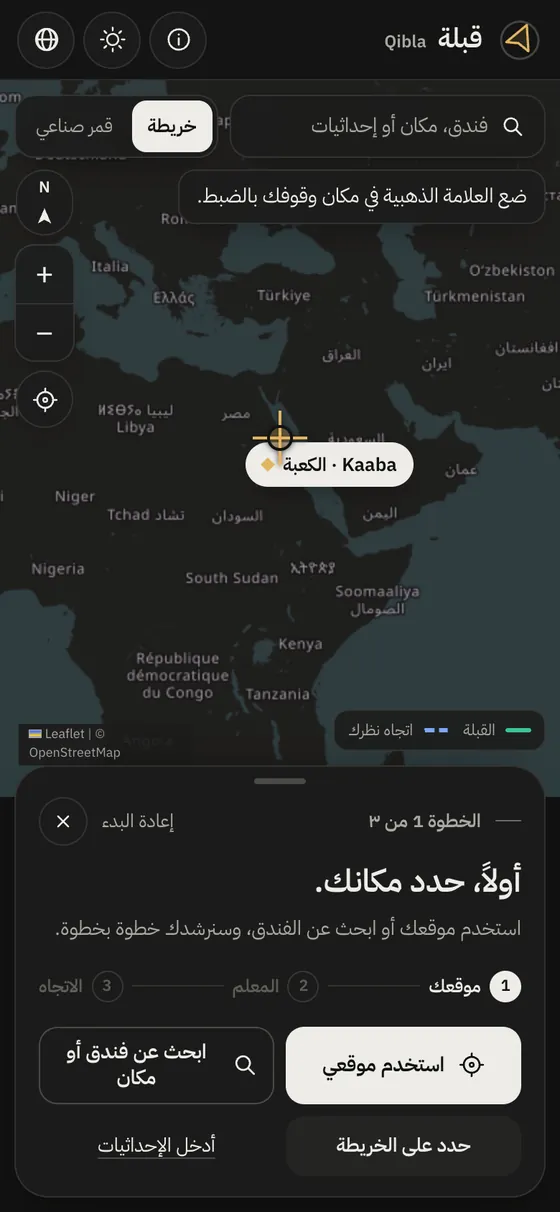
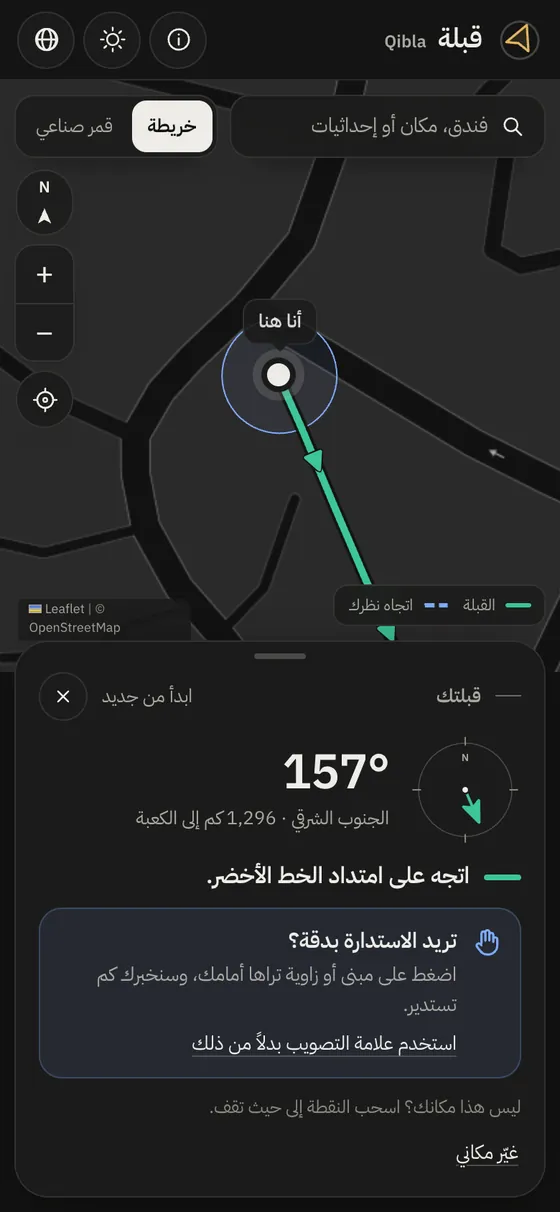
Qibla card shows the one-tap answer

diff --git a/ar/index.html b/ar/index.html
@@ -82,7 +82,7 @@
 <path d="M0 0 C7.05 -1.32 7.05 -1.32 11 0 C14.49 4.64 16.78 9.65 19 15 C19.46 13.92 19.92 12.83 20.4 11.72 C22.36 7.53 24.26 3.74 27 0 C32.5 -0.94 32.5 -0.94 37 0 C35.02 4.94 32.61 9.25 30 13.88 C25.5 22.3 23.31 29.48 23 39 C20.03 39 17.06 39 14 39 C14.1 37.18 14.21 35.37 14.31 33.5 C13.59 21.48 5.88 11.16 0 1 C0 0.67 0 0.34 0 0 Z " fill="#eeeee5" transform="translate(601,484)"/>
 <path d="M0 0 C3.63 0 7.26 0 11 0 C13.46 2.96 13.46 2.96 14.94 6.94 C15.47 8.3 16.01 9.66 16.56 11.06 C17.04 12.36 17.51 13.66 18 15 C18.8 16.79 19.61 18.59 20.44 20.44 C20.95 21.61 21.47 22.79 22 24 C22.45 23.11 22.89 22.21 23.36 21.29 C24.61 18.78 25.87 16.28 27.15 13.78 C29 10 29 10 30.23 6.84 C31.31 4.12 31.31 4.12 34 0 C37.3 0 40.6 0 44 0 C44 12.87 44 25.74 44 39 C41.03 39 38.06 39 35 39 C34.67 32.4 34.34 25.8 34 19 C32.85 21.97 31.69 24.94 30.5 28 C28.53 33.06 28.53 33.06 26 37 C22 38.16 22 38.16 18 37 C15.47 32.84 15.47 32.84 13.5 27.5 C12.83 25.74 12.16 23.97 11.47 22.16 C10.98 20.78 10.5 19.41 10 18 C10.01 19.43 10.02 20.86 10.04 22.34 C10.04 24.19 10.05 26.03 10.06 27.94 C10.07 29.78 10.09 31.63 10.1 33.53 C10 38 10 38 9 39 C6.03 39 3.06 39 0 39 C0 26.13 0 13.26 0 0 Z " fill="#eeeee5" transform="translate(661,484)"/>
 <g id="nadi-dots" fill="#eeeee5"><rect x="555" y="10" width="12" height="12" rx="3"/><rect x="370" y="99" width="10" height="10" rx="2.5"/><rect x="387" y="99" width="10" height="10" rx="2.5"/></g>
-</symbol></defs></svg><section class="ventures" id="ventures" aria-labelledby="ventures-title"><div class="ventures-heading"><div><p class="eyebrow">من أعمال athari.dev</p><h2 id="ventures-title">مشاريعنا</h2></div><div class="ventures-side"><p class="ventures-lead">منتجات نصمّمها ونبنيها ونشغّلها بأنفسنا.</p><div class="rail-nav" hidden><button class="rail-btn" type="button" data-rail="-1" aria-controls="venture-grid" aria-label="المشاريع السابقة"><svg viewBox="0 0 24 24" aria-hidden="true"><path d="m14.5 6-6 6 6 6"/></svg></button><button class="rail-btn" type="button" data-rail="1" aria-controls="venture-grid" aria-label="مزيد من المشاريع"><svg viewBox="0 0 24 24" aria-hidden="true"><path d="m14.5 6-6 6 6 6"/></svg></button></div></div></div><ol class="venture-grid" id="venture-grid" data-ink><li><a class="venture" href="https://sabab.athari.dev/" style="--glow:#00b78e"><span class="venture-stage" aria-hidden="true"><svg class="venture-mark venture-mark-sabab" viewBox="0 0 872 350" style="aspect-ratio:872/350" focusable="false"><use href="#venture-sabab"/></svg><span class="venture-device"><img src="/assets/ventures/screens/sabab-ar.webp?v=20261124-latest" alt="" width="560" height="1211" loading="lazy" decoding="async"></span></span><span class="venture-meta"><span class="venture-title"><strong>سبب</strong><span class="venture-status" data-status="soon">قريبًا</span></span><span class="venture-text">وظائف قريبة منك، وحرفيون تثق بهم.</span><svg class="venture-go" viewBox="0 0 24 24" aria-hidden="true"><path d="M7 17 17 7M8 7h9v9"/></svg></span></a></li><li><a class="venture" href="https://ajobs.athari.dev/" style="--glow:#a1cdf3"><span class="venture-stage" aria-hidden="true"><svg class="venture-mark venture-mark-ajobs" viewBox="0 0 420 130" style="aspect-ratio:420/130" focusable="false"><use href="#venture-ajobs"/></svg><span class="venture-device"><img src="/assets/ventures/screens/ajobs-ar.webp?v=20261124-latest" alt="" width="560" height="1211" loading="lazy" decoding="async"></span></span><span class="venture-meta"><span class="venture-title"><strong>AJobs</strong><span class="venture-status" data-status="live">متاح الآن</span></span><span class="venture-text">بحث واختيار مستقل لأصحاب الخبرة والكفاءة.</span><svg class="venture-go" viewBox="0 0 24 24" aria-hidden="true"><path d="M7 17 17 7M8 7h9v9"/></svg></span></a></li><li><a class="venture" href="https://athar.athari.dev/" style="--glow:#cfc9b8"><span class="venture-stage" aria-hidden="true"><svg class="venture-mark venture-mark-athar" viewBox="0 0 893 538" style="aspect-ratio:893/538" focusable="false"><use href="#venture-athar"/></svg><span class="venture-device"><img src="/assets/ventures/screens/athar.webp?v=20261124-latest" alt="" width="560" height="1211" loading="lazy" decoding="async"></span></span><span class="venture-meta"><span class="venture-title"><strong>نادي أثر</strong><span class="venture-status" data-status="soon">قريبًا</span></span><span class="venture-text">نادٍ رجالي، ومصلى مستقل وقفٌ دائم.</span><svg class="venture-go" viewBox="0 0 24 24" aria-hidden="true"><path d="M7 17 17 7M8 7h9v9"/></svg></span></a></li><li><a class="venture" href="https://qibla.athari.dev/" style="--glow:#e4c38b"><span class="venture-stage" aria-hidden="true"><svg class="venture-mark venture-mark-qibla" viewBox="0 0 295 110" style="aspect-ratio:295/110" focusable="false"><use href="#venture-qibla"/></svg><span class="venture-device"><img src="/assets/ventures/screens/qibla-ar.webp?v=20261124-merged" alt="" width="560" height="1211" loading="lazy" decoding="async"></span></span><span class="venture-meta"><span class="venture-title"><strong>قبلة</strong><span class="venture-status" data-status="live">متاح الآن</span></span><span class="venture-text">اعثر على القبلة بخريطة ومَعلم، دون بوصلة.</span><svg class="venture-go" viewBox="0 0 24 24" aria-hidden="true"><path d="M7 17 17 7M8 7h9v9"/></svg></span></a></li><li><a class="venture" href="https://brainstorm.athari.dev/" style="--glow:#c99578"><span class="venture-stage" aria-hidden="true"><svg class="venture-mark venture-mark-brainstorm" viewBox="0 0 500 110" style="aspect-ratio:500/110" focusable="false"><use href="#venture-brainstorm"/></svg><span class="venture-device"><img src="/assets/ventures/screens/brainstorm.webp?v=20261124-merged" alt="" width="560" height="1211" loading="lazy" decoding="async"></span></span><span class="venture-meta"><span class="venture-title"><strong>Brainstorm</strong><span class="venture-status" data-status="invite">بدعوة</span></span><span class="venture-text">مساحة مشتركة لأفكار فريقك ولوحاته.</span><svg class="venture-go" viewBox="0 0 24 24" aria-hidden="true"><path d="M7 17 17 7M8 7h9v9"/></svg></span></a></li><li class="yp-item"><a class="venture yp" href="#connect" data-enquire style="--glow:#c8b28a"><span class="venture-stage" aria-hidden="true"><span class="yp-tag"><svg viewBox="0 0 24 24"><path d="M12 6v12M6 12h12"/></svg>اسمك هنا</span><span class="venture-device"><svg class="ink yp-screen" viewBox="0 0 194 420" aria-hidden="true" focusable="false"><defs><pattern id="yp-dots" width="12" height="12" patternUnits="userSpaceOnUse"><circle cx="6" cy="6" r=".7"/></pattern></defs><rect class="yp-grid" width="194" height="420" fill="url(#yp-dots)"/><g transform="translate(194 0) scale(-1 1)"><path pathLength="1" style="--d:0s" d="M82 12h30a5 5 0 0 1 0 10H82a5 5 0 0 1 0-10Z"/><path pathLength="1" style="--d:.1s" d="M17 44a7 7 0 1 0 14 0a7 7 0 1 0-14 0Z"/><path pathLength="1" style="--d:.2s" d="M38 44h40"/><path pathLength="1" style="--d:.25s" d="M156 40h18M160 48h14"/><path pathLength="1" style="--d:.55s" d="M18 104h118"/><path pathLength="1" style="--d:.62s" d="M18 114h84"/><path pathLength="1" style="--d:.7s" d="M30 126h134a12 12 0 0 1 12 12v38a12 12 0 0 1-12 12H30a12 12 0 0 1-12-12v-38a12 12 0 0 1 12-12Z"/><path pathLength="1" style="--d:1s" d="M30 174c14 0 18-16 34-16s18 10 32 10 24-26 52-28"/><path pathLength="1" style="--d:1.45s" d="M148 140a3 3 0 1 0 6 0a3 3 0 1 0-6 0Z"/><path pathLength="1" style="--d:1.3s" d="M32 198h130a14 14 0 0 1 0 28H32a14 14 0 0 1 0-28Z"/><path pathLength="1" style="--d:1.15s" d="M30 240h134a12 12 0 0 1 12 12v16a12 12 0 0 1-12 12H30a12 12 0 0 1-12-12v-16a12 12 0 0 1 12-12Z"/><path pathLength="1" style="--d:1.2s" d="M31 260a7 7 0 1 0 14 0a7 7 0 1 0-14 0Z"/><path pathLength="1" style="--d:1.25s" d="M54 255h70M54 265h46"/><path pathLength="1" style="--d:1.25s" d="M30 290h134a12 12 0 0 1 12 12v16a12 12 0 0 1-12 12H30a12 12 0 0 1-12-12v-16a12 12 0 0 1 12-12Z"/><path pathLength="1" style="--d:1.3s" d="M31 310a7 7 0 1 0 14 0a7 7 0 1 0-14 0Z"/><path pathLength="1" style="--d:1.35s" d="M54 305h58M54 315h80"/></g><text class="yp-title" x="176" text-anchor="start" y="88">تطبيقك</text><rect class="yp-cover" x="12" y="64" width="170" height="32"/><rect class="yp-fill" x="18" y="198" width="158" height="28" rx="14"/><text class="yp-label" x="97" y="212.5">لنبنِه معًا</text></svg></span></span><span class="venture-meta"><span class="venture-title"><strong>مشروعك</strong><span class="venture-status" data-status="open">التالي</span></span><span class="venture-text">البطاقة التالية هنا محجوزة لفكرتك. أخبرنا بما تريد أن نبنيه.</span><svg class="venture-go" viewBox="0 0 24 24" aria-hidden="true"><path d="M7 17 17 7M8 7h9v9"/></svg></span></a></li></ol></section>
+</symbol></defs></svg><section class="ventures" id="ventures" aria-labelledby="ventures-title"><div class="ventures-heading"><div><p class="eyebrow">من أعمال athari.dev</p><h2 id="ventures-title">مشاريعنا</h2></div><div class="ventures-side"><p class="ventures-lead">منتجات نصمّمها ونبنيها ونشغّلها بأنفسنا.</p><div class="rail-nav" hidden><button class="rail-btn" type="button" data-rail="-1" aria-controls="venture-grid" aria-label="المشاريع السابقة"><svg viewBox="0 0 24 24" aria-hidden="true"><path d="m14.5 6-6 6 6 6"/></svg></button><button class="rail-btn" type="button" data-rail="1" aria-controls="venture-grid" aria-label="مزيد من المشاريع"><svg viewBox="0 0 24 24" aria-hidden="true"><path d="m14.5 6-6 6 6 6"/></svg></button></div></div></div><ol class="venture-grid" id="venture-grid" data-ink><li><a class="venture" href="https://sabab.athari.dev/" style="--glow:#00b78e"><span class="venture-stage" aria-hidden="true"><svg class="venture-mark venture-mark-sabab" viewBox="0 0 872 350" style="aspect-ratio:872/350" focusable="false"><use href="#venture-sabab"/></svg><span class="venture-device"><img src="/assets/ventures/screens/sabab-ar.webp?v=20261124-latest" alt="" width="560" height="1211" loading="lazy" decoding="async"></span></span><span class="venture-meta"><span class="venture-title"><strong>سبب</strong><span class="venture-status" data-status="soon">قريبًا</span></span><span class="venture-text">وظائف قريبة منك، وحرفيون تثق بهم.</span><svg class="venture-go" viewBox="0 0 24 24" aria-hidden="true"><path d="M7 17 17 7M8 7h9v9"/></svg></span></a></li><li><a class="venture" href="https://ajobs.athari.dev/" style="--glow:#a1cdf3"><span class="venture-stage" aria-hidden="true"><svg class="venture-mark venture-mark-ajobs" viewBox="0 0 420 130" style="aspect-ratio:420/130" focusable="false"><use href="#venture-ajobs"/></svg><span class="venture-device"><img src="/assets/ventures/screens/ajobs-ar.webp?v=20261124-latest" alt="" width="560" height="1211" loading="lazy" decoding="async"></span></span><span class="venture-meta"><span class="venture-title"><strong>AJobs</strong><span class="venture-status" data-status="live">متاح الآن</span></span><span class="venture-text">بحث واختيار مستقل لأصحاب الخبرة والكفاءة.</span><svg class="venture-go" viewBox="0 0 24 24" aria-hidden="true"><path d="M7 17 17 7M8 7h9v9"/></svg></span></a></li><li><a class="venture" href="https://athar.athari.dev/" style="--glow:#cfc9b8"><span class="venture-stage" aria-hidden="true"><svg class="venture-mark venture-mark-athar" viewBox="0 0 893 538" style="aspect-ratio:893/538" focusable="false"><use href="#venture-athar"/></svg><span class="venture-device"><img src="/assets/ventures/screens/athar.webp?v=20261124-latest" alt="" width="560" height="1211" loading="lazy" decoding="async"></span></span><span class="venture-meta"><span class="venture-title"><strong>نادي أثر</strong><span class="venture-status" data-status="soon">قريبًا</span></span><span class="venture-text">نادٍ رجالي، ومصلى مستقل وقفٌ دائم.</span><svg class="venture-go" viewBox="0 0 24 24" aria-hidden="true"><path d="M7 17 17 7M8 7h9v9"/></svg></span></a></li><li><a class="venture" href="https://qibla.athari.dev/" style="--glow:#e4c38b"><span class="venture-stage" aria-hidden="true"><svg class="venture-mark venture-mark-qibla" viewBox="0 0 295 110" style="aspect-ratio:295/110" focusable="false"><use href="#venture-qibla"/></svg><span class="venture-device"><img src="/assets/ventures/screens/qibla-ar.webp?v=20261125-onetap" alt="" width="560" height="1211" loading="lazy" decoding="async"></span></span><span class="venture-meta"><span class="venture-title"><strong>قبلة</strong><span class="venture-status" data-status="live">متاح الآن</span></span><span class="venture-text">اضغط مرة واحدة لترى اتجاه القبلة على الخريطة، دون بوصلة.</span><svg class="venture-go" viewBox="0 0 24 24" aria-hidden="true"><path d="M7 17 17 7M8 7h9v9"/></svg></span></a></li><li><a class="venture" href="https://brainstorm.athari.dev/" style="--glow:#c99578"><span class="venture-stage" aria-hidden="true"><svg class="venture-mark venture-mark-brainstorm" viewBox="0 0 500 110" style="aspect-ratio:500/110" focusable="false"><use href="#venture-brainstorm"/></svg><span class="venture-device"><img src="/assets/ventures/screens/brainstorm.webp?v=20261124-merged" alt="" width="560" height="1211" loading="lazy" decoding="async"></span></span><span class="venture-meta"><span class="venture-title"><strong>Brainstorm</strong><span class="venture-status" data-status="invite">بدعوة</span></span><span class="venture-text">مساحة مشتركة لأفكار فريقك ولوحاته.</span><svg class="venture-go" viewBox="0 0 24 24" aria-hidden="true"><path d="M7 17 17 7M8 7h9v9"/></svg></span></a></li><li class="yp-item"><a class="venture yp" href="#connect" data-enquire style="--glow:#c8b28a"><span class="venture-stage" aria-hidden="true"><span class="yp-tag"><svg viewBox="0 0 24 24"><path d="M12 6v12M6 12h12"/></svg>اسمك هنا</span><span class="venture-device"><svg class="ink yp-screen" viewBox="0 0 194 420" aria-hidden="true" focusable="false"><defs><pattern id="yp-dots" width="12" height="12" patternUnits="userSpaceOnUse"><circle cx="6" cy="6" r=".7"/></pattern></defs><rect class="yp-grid" width="194" height="420" fill="url(#yp-dots)"/><g transform="translate(194 0) scale(-1 1)"><path pathLength="1" style="--d:0s" d="M82 12h30a5 5 0 0 1 0 10H82a5 5 0 0 1 0-10Z"/><path pathLength="1" style="--d:.1s" d="M17 44a7 7 0 1 0 14 0a7 7 0 1 0-14 0Z"/><path pathLength="1" style="--d:.2s" d="M38 44h40"/><path pathLength="1" style="--d:.25s" d="M156 40h18M160 48h14"/><path pathLength="1" style="--d:.55s" d="M18 104h118"/><path pathLength="1" style="--d:.62s" d="M18 114h84"/><path pathLength="1" style="--d:.7s" d="M30 126h134a12 12 0 0 1 12 12v38a12 12 0 0 1-12 12H30a12 12 0 0 1-12-12v-38a12 12 0 0 1 12-12Z"/><path pathLength="1" style="--d:1s" d="M30 174c14 0 18-16 34-16s18 10 32 10 24-26 52-28"/><path pathLength="1" style="--d:1.45s" d="M148 140a3 3 0 1 0 6 0a3 3 0 1 0-6 0Z"/><path pathLength="1" style="--d:1.3s" d="M32 198h130a14 14 0 0 1 0 28H32a14 14 0 0 1 0-28Z"/><path pathLength="1" style="--d:1.15s" d="M30 240h134a12 12 0 0 1 12 12v16a12 12 0 0 1-12 12H30a12 12 0 0 1-12-12v-16a12 12 0 0 1 12-12Z"/><path pathLength="1" style="--d:1.2s" d="M31 260a7 7 0 1 0 14 0a7 7 0 1 0-14 0Z"/><path pathLength="1" style="--d:1.25s" d="M54 255h70M54 265h46"/><path pathLength="1" style="--d:1.25s" d="M30 290h134a12 12 0 0 1 12 12v16a12 12 0 0 1-12 12H30a12 12 0 0 1-12-12v-16a12 12 0 0 1 12-12Z"/><path pathLength="1" style="--d:1.3s" d="M31 310a7 7 0 1 0 14 0a7 7 0 1 0-14 0Z"/><path pathLength="1" style="--d:1.35s" d="M54 305h58M54 315h80"/></g><text class="yp-title" x="176" text-anchor="start" y="88">تطبيقك</text><rect class="yp-cover" x="12" y="64" width="170" height="32"/><rect class="yp-fill" x="18" y="198" width="158" height="28" rx="14"/><text class="yp-label" x="97" y="212.5">لنبنِه معًا</text></svg></span></span><span class="venture-meta"><span class="venture-title"><strong>مشروعك</strong><span class="venture-status" data-status="open">التالي</span></span><span class="venture-text">البطاقة التالية هنا محجوزة لفكرتك. أخبرنا بما تريد أن نبنيه.</span><svg class="venture-go" viewBox="0 0 24 24" aria-hidden="true"><path d="M7 17 17 7M8 7h9v9"/></svg></span></a></li></ol></section>
       <section class="offerings" id="showcase" aria-labelledby="showcase-title"><div class="offerings-heading"><div><p class="eyebrow">الخدمات</p><h2 id="showcase-title">تقنية تخدم <span class="serif">أعمالك.</span></h2></div><a class="offering-cta" href="#connect">لنتحدّث عن مشروعك<svg viewBox="0 0 24 24" aria-hidden="true"><path d="M6 18 18 6M6 6h12v12"/></svg></a></div><ol class="offerings-list" data-ink><li><span class="offering-ink" aria-hidden="true"><svg class="ink" viewBox="0 0 40 40"><path pathLength="1" d="M27 23.5V27a2.5 2.5 0 0 1-2.5 2.5h-18A2.5 2.5 0 0 1 4 27V11.5A2.5 2.5 0 0 1 6.5 9h18a2.5 2.5 0 0 1 2.5 2.5v3"/><path pathLength="1" d="M4 14.5h19"/><path pathLength="1" style="--d:.25s" d="M28.5 16h5a2 2 0 0 1 2 2v13.5a2 2 0 0 1-2 2h-5a2 2 0 0 1-2-2V18a2 2 0 0 1 2-2Z"/><path pathLength="1" style="--d:.5s" d="M30 29.5h2"/></svg></span><h3>مواقع وتطبيقات</h3><p>مواقع لأعمالك، تطبيقات لعملائك وأدوات مخصّصة لفريقك.</p></li><li><span class="offering-ink" aria-hidden="true"><svg class="ink" viewBox="0 0 40 40"><path pathLength="1" d="M17 7c.9 6.4 3.6 9.1 10 10-6.4.9-9.1 3.6-10 10-.9-6.4-3.6-9.1-10-10 6.4-.9 9.1-3.6 10-10Z"/><path pathLength="1" style="--d:.3s" d="M30 4.5c.4 2.6 1.4 3.6 4 4-2.6.4-3.6 1.4-4 4-.4-2.6-1.4-3.6-4-4 2.6-.4 3.6-1.4 4-4Z"/><path pathLength="1" style="--d:.45s" d="M29.5 26.5a12.5 12.5 0 0 1-17.6 6.2"/><path pathLength="1" style="--d:.7s" d="m12.6 29.7-.7 3 3 .9"/></svg></span><h3>ذكاء اصطناعي وأتمتة</h3><p>حلول للذكاء الاصطناعي والحوسبة السحابية تربط أنظمتك وتبسّط العمل المتكرّر.</p></li><li><span class="offering-ink" aria-hidden="true"><svg class="ink" viewBox="0 0 40 40"><path pathLength="1" d="M8.5 31.5c7 0 6.5-9 13-9s6-10.5 10-13"/><path pathLength="1" style="--d:.35s" d="M8.5 34.5a3 3 0 1 0 0-6 3 3 0 0 0 0 6Z"/><path pathLength="1" style="--d:.55s" d="M31.5 13.5v-9l5 2.3-5 2.2"/></svg></span><h3>استشارات تقنية</h3><p>تحديد نطاق المنتج، اختيار البنية المناسبة والتخطيط للخطوة القادمة.</p></li></ol></section>
       
       <section class="approach" id="approach" aria-labelledby="approach-title"><div class="approach-heading"><div><p class="eyebrow">طريقة العمل</p><h2 id="approach-title">من الفكرة إلى <span class="serif">التنفيذ.</span></h2></div><p>خطوات واضحة. وتواصل مباشر.</p></div><ol class="approach-steps" data-ink><li><span class="step-index" aria-hidden="true">٠١</span><h3>نفهم الاحتياج</h3><p>نبدأ بما يحتاجه عملك، ولمن نبنيه، وما الذي تريد تحسينه.</p></li><li><span class="step-index" aria-hidden="true">٠٢</span><h3>نحدّد النطاق</h3><p>نتّفق على المطلوب والأولويات والتكلفة قبل بدء التنفيذ.</p></li><li><span class="step-index" aria-hidden="true">٠٣</span><h3>نبني ونراجع</h3><p>نحوّل الفكرة إلى منتج، نراجعه معًا، ونجهّزه للإطلاق.</p></li></ol></section>

diff --git a/en/index.html b/en/index.html
@@ -81,7 +81,7 @@
 <path d="M0 0 C7.05 -1.32 7.05 -1.32 11 0 C14.49 4.64 16.78 9.65 19 15 C19.46 13.92 19.92 12.83 20.4 11.72 C22.36 7.53 24.26 3.74 27 0 C32.5 -0.94 32.5 -0.94 37 0 C35.02 4.94 32.61 9.25 30 13.88 C25.5 22.3 23.31 29.48 23 39 C20.03 39 17.06 39 14 39 C14.1 37.18 14.21 35.37 14.31 33.5 C13.59 21.48 5.88 11.16 0 1 C0 0.67 0 0.34 0 0 Z " fill="#eeeee5" transform="translate(601,484)"/>
 <path d="M0 0 C3.63 0 7.26 0 11 0 C13.46 2.96 13.46 2.96 14.94 6.94 C15.47 8.3 16.01 9.66 16.56 11.06 C17.04 12.36 17.51 13.66 18 15 C18.8 16.79 19.61 18.59 20.44 20.44 C20.95 21.61 21.47 22.79 22 24 C22.45 23.11 22.89 22.21 23.36 21.29 C24.61 18.78 25.87 16.28 27.15 13.78 C29 10 29 10 30.23 6.84 C31.31 4.12 31.31 4.12 34 0 C37.3 0 40.6 0 44 0 C44 12.87 44 25.74 44 39 C41.03 39 38.06 39 35 39 C34.67 32.4 34.34 25.8 34 19 C32.85 21.97 31.69 24.94 30.5 28 C28.53 33.06 28.53 33.06 26 37 C22 38.16 22 38.16 18 37 C15.47 32.84 15.47 32.84 13.5 27.5 C12.83 25.74 12.16 23.97 11.47 22.16 C10.98 20.78 10.5 19.41 10 18 C10.01 19.43 10.02 20.86 10.04 22.34 C10.04 24.19 10.05 26.03 10.06 27.94 C10.07 29.78 10.09 31.63 10.1 33.53 C10 38 10 38 9 39 C6.03 39 3.06 39 0 39 C0 26.13 0 13.26 0 0 Z " fill="#eeeee5" transform="translate(661,484)"/>
 <g id="nadi-dots" fill="#eeeee5"><rect x="555" y="10" width="12" height="12" rx="3"/><rect x="370" y="99" width="10" height="10" rx="2.5"/><rect x="387" y="99" width="10" height="10" rx="2.5"/></g>
-</symbol></defs></svg><section class="ventures" id="ventures" aria-labelledby="ventures-title"><div class="ventures-heading"><div><p class="eyebrow">Built by athari.dev</p><h2 id="ventures-title">Our ventures</h2></div><div class="ventures-side"><p class="ventures-lead">Products we design, build and run ourselves.</p><div class="rail-nav" hidden><button class="rail-btn" type="button" data-rail="-1" aria-controls="venture-grid" aria-label="Previous ventures"><svg viewBox="0 0 24 24" aria-hidden="true"><path d="m14.5 6-6 6 6 6"/></svg></button><button class="rail-btn" type="button" data-rail="1" aria-controls="venture-grid" aria-label="More ventures"><svg viewBox="0 0 24 24" aria-hidden="true"><path d="m14.5 6-6 6 6 6"/></svg></button></div></div></div><ol class="venture-grid" id="venture-grid" data-ink><li><a class="venture" href="https://sabab.athari.dev/" style="--glow:#00b78e"><span class="venture-stage" aria-hidden="true"><svg class="venture-mark venture-mark-sabab" viewBox="0 0 872 350" style="aspect-ratio:872/350" focusable="false"><use href="#venture-sabab"/></svg><span class="venture-device"><img src="/assets/ventures/screens/sabab-en.webp?v=20261124-latest" alt="" width="560" height="1211" loading="lazy" decoding="async"></span></span><span class="venture-meta"><span class="venture-title"><strong>Sabab</strong><span class="venture-status" data-status="soon">Coming soon</span></span><span class="venture-text">Jobs near you and handymen you can trust.</span><svg class="venture-go" viewBox="0 0 24 24" aria-hidden="true"><path d="M7 17 17 7M8 7h9v9"/></svg></span></a></li><li><a class="venture" href="https://ajobs.athari.dev/" style="--glow:#a1cdf3"><span class="venture-stage" aria-hidden="true"><svg class="venture-mark venture-mark-ajobs" viewBox="0 0 420 130" style="aspect-ratio:420/130" focusable="false"><use href="#venture-ajobs"/></svg><span class="venture-device"><img src="/assets/ventures/screens/ajobs-en.webp?v=20261124-latest" alt="" width="560" height="1211" loading="lazy" decoding="async"></span></span><span class="venture-meta"><span class="venture-title"><strong>AJobs</strong><span class="venture-status" data-status="live">Live</span></span><span class="venture-text">Independent search and selection for experienced people.</span><svg class="venture-go" viewBox="0 0 24 24" aria-hidden="true"><path d="M7 17 17 7M8 7h9v9"/></svg></span></a></li><li><a class="venture" href="https://athar.athari.dev/" style="--glow:#cfc9b8"><span class="venture-stage" aria-hidden="true"><svg class="venture-mark venture-mark-athar" viewBox="0 0 893 538" style="aspect-ratio:893/538" focusable="false"><use href="#venture-athar"/></svg><span class="venture-device"><img src="/assets/ventures/screens/athar.webp?v=20261124-latest" alt="" width="560" height="1211" loading="lazy" decoding="async"></span></span><span class="venture-meta"><span class="venture-title"><strong>Athar Gym</strong><span class="venture-status" data-status="soon">Coming soon</span></span><span class="venture-text">A men’s gym with an independent prayer hall.</span><svg class="venture-go" viewBox="0 0 24 24" aria-hidden="true"><path d="M7 17 17 7M8 7h9v9"/></svg></span></a></li><li><a class="venture" href="https://qibla.athari.dev/" style="--glow:#e4c38b"><span class="venture-stage" aria-hidden="true"><svg class="venture-mark venture-mark-qibla" viewBox="0 0 295 110" style="aspect-ratio:295/110" focusable="false"><use href="#venture-qibla"/></svg><span class="venture-device"><img src="/assets/ventures/screens/qibla-en.webp?v=20261124-merged" alt="" width="560" height="1211" loading="lazy" decoding="async"></span></span><span class="venture-meta"><span class="venture-title"><strong>Qibla</strong><span class="venture-status" data-status="live">Live</span></span><span class="venture-text">Find the Qibla with a map and a landmark, no compass needed.</span><svg class="venture-go" viewBox="0 0 24 24" aria-hidden="true"><path d="M7 17 17 7M8 7h9v9"/></svg></span></a></li><li><a class="venture" href="https://brainstorm.athari.dev/" style="--glow:#c99578"><span class="venture-stage" aria-hidden="true"><svg class="venture-mark venture-mark-brainstorm" viewBox="0 0 500 110" style="aspect-ratio:500/110" focusable="false"><use href="#venture-brainstorm"/></svg><span class="venture-device"><img src="/assets/ventures/screens/brainstorm.webp?v=20261124-merged" alt="" width="560" height="1211" loading="lazy" decoding="async"></span></span><span class="venture-meta"><span class="venture-title"><strong>Brainstorm</strong><span class="venture-status" data-status="invite">By invitation</span></span><span class="venture-text">A shared home for your team’s spaces, canvases and ideas.</span><svg class="venture-go" viewBox="0 0 24 24" aria-hidden="true"><path d="M7 17 17 7M8 7h9v9"/></svg></span></a></li><li class="yp-item"><a class="venture yp" href="#connect" data-enquire style="--glow:#c8b28a"><span class="venture-stage" aria-hidden="true"><span class="yp-tag"><svg viewBox="0 0 24 24"><path d="M12 6v12M6 12h12"/></svg>Your name here</span><span class="venture-device"><svg class="ink yp-screen" viewBox="0 0 194 420" aria-hidden="true" focusable="false"><defs><pattern id="yp-dots" width="12" height="12" patternUnits="userSpaceOnUse"><circle cx="6" cy="6" r=".7"/></pattern></defs><rect class="yp-grid" width="194" height="420" fill="url(#yp-dots)"/><g><path pathLength="1" style="--d:0s" d="M82 12h30a5 5 0 0 1 0 10H82a5 5 0 0 1 0-10Z"/><path pathLength="1" style="--d:.1s" d="M17 44a7 7 0 1 0 14 0a7 7 0 1 0-14 0Z"/><path pathLength="1" style="--d:.2s" d="M38 44h40"/><path pathLength="1" style="--d:.25s" d="M156 40h18M160 48h14"/><path pathLength="1" style="--d:.55s" d="M18 104h118"/><path pathLength="1" style="--d:.62s" d="M18 114h84"/><path pathLength="1" style="--d:.7s" d="M30 126h134a12 12 0 0 1 12 12v38a12 12 0 0 1-12 12H30a12 12 0 0 1-12-12v-38a12 12 0 0 1 12-12Z"/><path pathLength="1" style="--d:1s" d="M30 174c14 0 18-16 34-16s18 10 32 10 24-26 52-28"/><path pathLength="1" style="--d:1.45s" d="M148 140a3 3 0 1 0 6 0a3 3 0 1 0-6 0Z"/><path pathLength="1" style="--d:1.3s" d="M32 198h130a14 14 0 0 1 0 28H32a14 14 0 0 1 0-28Z"/><path pathLength="1" style="--d:1.15s" d="M30 240h134a12 12 0 0 1 12 12v16a12 12 0 0 1-12 12H30a12 12 0 0 1-12-12v-16a12 12 0 0 1 12-12Z"/><path pathLength="1" style="--d:1.2s" d="M31 260a7 7 0 1 0 14 0a7 7 0 1 0-14 0Z"/><path pathLength="1" style="--d:1.25s" d="M54 255h70M54 265h46"/><path pathLength="1" style="--d:1.25s" d="M30 290h134a12 12 0 0 1 12 12v16a12 12 0 0 1-12 12H30a12 12 0 0 1-12-12v-16a12 12 0 0 1 12-12Z"/><path pathLength="1" style="--d:1.3s" d="M31 310a7 7 0 1 0 14 0a7 7 0 1 0-14 0Z"/><path pathLength="1" style="--d:1.35s" d="M54 305h58M54 315h80"/></g><text class="yp-title" x="18" y="88">Your app</text><rect class="yp-cover" x="12" y="64" width="170" height="32"/><rect class="yp-fill" x="18" y="198" width="158" height="28" rx="14"/><text class="yp-label" x="97" y="212.5">Let’s build it</text></svg></span></span><span class="venture-meta"><span class="venture-title"><strong>Your project</strong><span class="venture-status" data-status="open">Next up</span></span><span class="venture-text">The next card here is saved for your idea. Tell us what you’d like to build.</span><svg class="venture-go" viewBox="0 0 24 24" aria-hidden="true"><path d="M7 17 17 7M8 7h9v9"/></svg></span></a></li></ol></section>
+</symbol></defs></svg><section class="ventures" id="ventures" aria-labelledby="ventures-title"><div class="ventures-heading"><div><p class="eyebrow">Built by athari.dev</p><h2 id="ventures-title">Our ventures</h2></div><div class="ventures-side"><p class="ventures-lead">Products we design, build and run ourselves.</p><div class="rail-nav" hidden><button class="rail-btn" type="button" data-rail="-1" aria-controls="venture-grid" aria-label="Previous ventures"><svg viewBox="0 0 24 24" aria-hidden="true"><path d="m14.5 6-6 6 6 6"/></svg></button><button class="rail-btn" type="button" data-rail="1" aria-controls="venture-grid" aria-label="More ventures"><svg viewBox="0 0 24 24" aria-hidden="true"><path d="m14.5 6-6 6 6 6"/></svg></button></div></div></div><ol class="venture-grid" id="venture-grid" data-ink><li><a class="venture" href="https://sabab.athari.dev/" style="--glow:#00b78e"><span class="venture-stage" aria-hidden="true"><svg class="venture-mark venture-mark-sabab" viewBox="0 0 872 350" style="aspect-ratio:872/350" focusable="false"><use href="#venture-sabab"/></svg><span class="venture-device"><img src="/assets/ventures/screens/sabab-en.webp?v=20261124-latest" alt="" width="560" height="1211" loading="lazy" decoding="async"></span></span><span class="venture-meta"><span class="venture-title"><strong>Sabab</strong><span class="venture-status" data-status="soon">Coming soon</span></span><span class="venture-text">Jobs near you and handymen you can trust.</span><svg class="venture-go" viewBox="0 0 24 24" aria-hidden="true"><path d="M7 17 17 7M8 7h9v9"/></svg></span></a></li><li><a class="venture" href="https://ajobs.athari.dev/" style="--glow:#a1cdf3"><span class="venture-stage" aria-hidden="true"><svg class="venture-mark venture-mark-ajobs" viewBox="0 0 420 130" style="aspect-ratio:420/130" focusable="false"><use href="#venture-ajobs"/></svg><span class="venture-device"><img src="/assets/ventures/screens/ajobs-en.webp?v=20261124-latest" alt="" width="560" height="1211" loading="lazy" decoding="async"></span></span><span class="venture-meta"><span class="venture-title"><strong>AJobs</strong><span class="venture-status" data-status="live">Live</span></span><span class="venture-text">Independent search and selection for experienced people.</span><svg class="venture-go" viewBox="0 0 24 24" aria-hidden="true"><path d="M7 17 17 7M8 7h9v9"/></svg></span></a></li><li><a class="venture" href="https://athar.athari.dev/" style="--glow:#cfc9b8"><span class="venture-stage" aria-hidden="true"><svg class="venture-mark venture-mark-athar" viewBox="0 0 893 538" style="aspect-ratio:893/538" focusable="false"><use href="#venture-athar"/></svg><span class="venture-device"><img src="/assets/ventures/screens/athar.webp?v=20261124-latest" alt="" width="560" height="1211" loading="lazy" decoding="async"></span></span><span class="venture-meta"><span class="venture-title"><strong>Athar Gym</strong><span class="venture-status" data-status="soon">Coming soon</span></span><span class="venture-text">A men’s gym with an independent prayer hall.</span><svg class="venture-go" viewBox="0 0 24 24" aria-hidden="true"><path d="M7 17 17 7M8 7h9v9"/></svg></span></a></li><li><a class="venture" href="https://qibla.athari.dev/" style="--glow:#e4c38b"><span class="venture-stage" aria-hidden="true"><svg class="venture-mark venture-mark-qibla" viewBox="0 0 295 110" style="aspect-ratio:295/110" focusable="false"><use href="#venture-qibla"/></svg><span class="venture-device"><img src="/assets/ventures/screens/qibla-en.webp?v=20261125-onetap" alt="" width="560" height="1211" loading="lazy" decoding="async"></span></span><span class="venture-meta"><span class="venture-title"><strong>Qibla</strong><span class="venture-status" data-status="live">Live</span></span><span class="venture-text">Tap once and see your Qibla on the map. No compass needed.</span><svg class="venture-go" viewBox="0 0 24 24" aria-hidden="true"><path d="M7 17 17 7M8 7h9v9"/></svg></span></a></li><li><a class="venture" href="https://brainstorm.athari.dev/" style="--glow:#c99578"><span class="venture-stage" aria-hidden="true"><svg class="venture-mark venture-mark-brainstorm" viewBox="0 0 500 110" style="aspect-ratio:500/110" focusable="false"><use href="#venture-brainstorm"/></svg><span class="venture-device"><img src="/assets/ventures/screens/brainstorm.webp?v=20261124-merged" alt="" width="560" height="1211" loading="lazy" decoding="async"></span></span><span class="venture-meta"><span class="venture-title"><strong>Brainstorm</strong><span class="venture-status" data-status="invite">By invitation</span></span><span class="venture-text">A shared home for your team’s spaces, canvases and ideas.</span><svg class="venture-go" viewBox="0 0 24 24" aria-hidden="true"><path d="M7 17 17 7M8 7h9v9"/></svg></span></a></li><li class="yp-item"><a class="venture yp" href="#connect" data-enquire style="--glow:#c8b28a"><span class="venture-stage" aria-hidden="true"><span class="yp-tag"><svg viewBox="0 0 24 24"><path d="M12 6v12M6 12h12"/></svg>Your name here</span><span class="venture-device"><svg class="ink yp-screen" viewBox="0 0 194 420" aria-hidden="true" focusable="false"><defs><pattern id="yp-dots" width="12" height="12" patternUnits="userSpaceOnUse"><circle cx="6" cy="6" r=".7"/></pattern></defs><rect class="yp-grid" width="194" height="420" fill="url(#yp-dots)"/><g><path pathLength="1" style="--d:0s" d="M82 12h30a5 5 0 0 1 0 10H82a5 5 0 0 1 0-10Z"/><path pathLength="1" style="--d:.1s" d="M17 44a7 7 0 1 0 14 0a7 7 0 1 0-14 0Z"/><path pathLength="1" style="--d:.2s" d="M38 44h40"/><path pathLength="1" style="--d:.25s" d="M156 40h18M160 48h14"/><path pathLength="1" style="--d:.55s" d="M18 104h118"/><path pathLength="1" style="--d:.62s" d="M18 114h84"/><path pathLength="1" style="--d:.7s" d="M30 126h134a12 12 0 0 1 12 12v38a12 12 0 0 1-12 12H30a12 12 0 0 1-12-12v-38a12 12 0 0 1 12-12Z"/><path pathLength="1" style="--d:1s" d="M30 174c14 0 18-16 34-16s18 10 32 10 24-26 52-28"/><path pathLength="1" style="--d:1.45s" d="M148 140a3 3 0 1 0 6 0a3 3 0 1 0-6 0Z"/><path pathLength="1" style="--d:1.3s" d="M32 198h130a14 14 0 0 1 0 28H32a14 14 0 0 1 0-28Z"/><path pathLength="1" style="--d:1.15s" d="M30 240h134a12 12 0 0 1 12 12v16a12 12 0 0 1-12 12H30a12 12 0 0 1-12-12v-16a12 12 0 0 1 12-12Z"/><path pathLength="1" style="--d:1.2s" d="M31 260a7 7 0 1 0 14 0a7 7 0 1 0-14 0Z"/><path pathLength="1" style="--d:1.25s" d="M54 255h70M54 265h46"/><path pathLength="1" style="--d:1.25s" d="M30 290h134a12 12 0 0 1 12 12v16a12 12 0 0 1-12 12H30a12 12 0 0 1-12-12v-16a12 12 0 0 1 12-12Z"/><path pathLength="1" style="--d:1.3s" d="M31 310a7 7 0 1 0 14 0a7 7 0 1 0-14 0Z"/><path pathLength="1" style="--d:1.35s" d="M54 305h58M54 315h80"/></g><text class="yp-title" x="18" y="88">Your app</text><rect class="yp-cover" x="12" y="64" width="170" height="32"/><rect class="yp-fill" x="18" y="198" width="158" height="28" rx="14"/><text class="yp-label" x="97" y="212.5">Let’s build it</text></svg></span></span><span class="venture-meta"><span class="venture-title"><strong>Your project</strong><span class="venture-status" data-status="open">Next up</span></span><span class="venture-text">The next card here is saved for your idea. Tell us what you’d like to build.</span><svg class="venture-go" viewBox="0 0 24 24" aria-hidden="true"><path d="M7 17 17 7M8 7h9v9"/></svg></span></a></li></ol></section>
       <section class="offerings" id="showcase" aria-labelledby="showcase-title"><div class="offerings-heading"><div><p class="eyebrow">What we offer</p><h2 id="showcase-title">Built for <span class="serif">your business.</span></h2></div><a class="offering-cta" href="#connect">Discuss your project<svg viewBox="0 0 24 24" aria-hidden="true"><path d="M6 18 18 6M6 6h12v12"/></svg></a></div><ol class="offerings-list" data-ink><li><span class="offering-ink" aria-hidden="true"><svg class="ink" viewBox="0 0 40 40"><path pathLength="1" d="M27 23.5V27a2.5 2.5 0 0 1-2.5 2.5h-18A2.5 2.5 0 0 1 4 27V11.5A2.5 2.5 0 0 1 6.5 9h18a2.5 2.5 0 0 1 2.5 2.5v3"/><path pathLength="1" d="M4 14.5h19"/><path pathLength="1" style="--d:.25s" d="M28.5 16h5a2 2 0 0 1 2 2v13.5a2 2 0 0 1-2 2h-5a2 2 0 0 1-2-2V18a2 2 0 0 1 2-2Z"/><path pathLength="1" style="--d:.5s" d="M30 29.5h2"/></svg></span><h3>Websites & apps</h3><p>Websites for your business, apps for your customers and custom tools for your team.</p></li><li><span class="offering-ink" aria-hidden="true"><svg class="ink" viewBox="0 0 40 40"><path pathLength="1" d="M17 7c.9 6.4 3.6 9.1 10 10-6.4.9-9.1 3.6-10 10-.9-6.4-3.6-9.1-10-10 6.4-.9 9.1-3.6 10-10Z"/><path pathLength="1" style="--d:.3s" d="M30 4.5c.4 2.6 1.4 3.6 4 4-2.6.4-3.6 1.4-4 4-.4-2.6-1.4-3.6-4-4 2.6-.4 3.6-1.4 4-4Z"/><path pathLength="1" style="--d:.45s" d="M29.5 26.5a12.5 12.5 0 0 1-17.6 6.2"/><path pathLength="1" style="--d:.7s" d="m12.6 29.7-.7 3 3 .9"/></svg></span><h3>AI & automation</h3><p>Practical AI, cloud services and integrations that simplify everyday work.</p></li><li><span class="offering-ink" aria-hidden="true"><svg class="ink" viewBox="0 0 40 40"><path pathLength="1" d="M8.5 31.5c7 0 6.5-9 13-9s6-10.5 10-13"/><path pathLength="1" style="--d:.35s" d="M8.5 34.5a3 3 0 1 0 0-6 3 3 0 0 0 0 6Z"/><path pathLength="1" style="--d:.55s" d="M31.5 13.5v-9l5 2.3-5 2.2"/></svg></span><h3>Technical consultancy</h3><p>Clear direction on product scope, architecture and your next technical step.</p></li></ol></section>
       
       <section class="approach" id="approach" aria-labelledby="approach-title"><div class="approach-heading"><div><p class="eyebrow">The approach</p><h2 id="approach-title">From first brief <span class="serif">to launch.</span></h2></div><p>Clear steps. Direct communication.</p></div><ol class="approach-steps" data-ink><li><span class="step-index" aria-hidden="true">01</span><h3>Understand the need</h3><p>We start with your business, your audience, and what you want to improve.</p></li><li><span class="step-index" aria-hidden="true">02</span><h3>Define the scope</h3><p>Agree on the deliverables, priorities, and cost before the build begins.</p></li><li><span class="step-index" aria-hidden="true">03</span><h3>Build and refine</h3><p>Turn the plan into working software, review it together, and prepare for launch.</p></li></ol></section>
